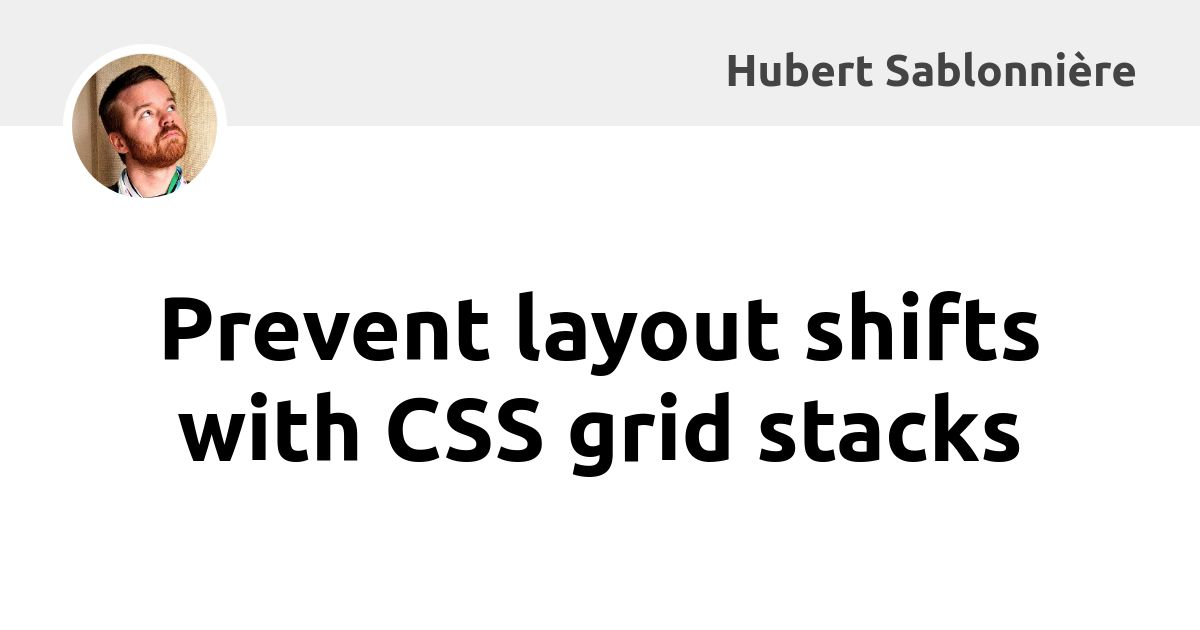
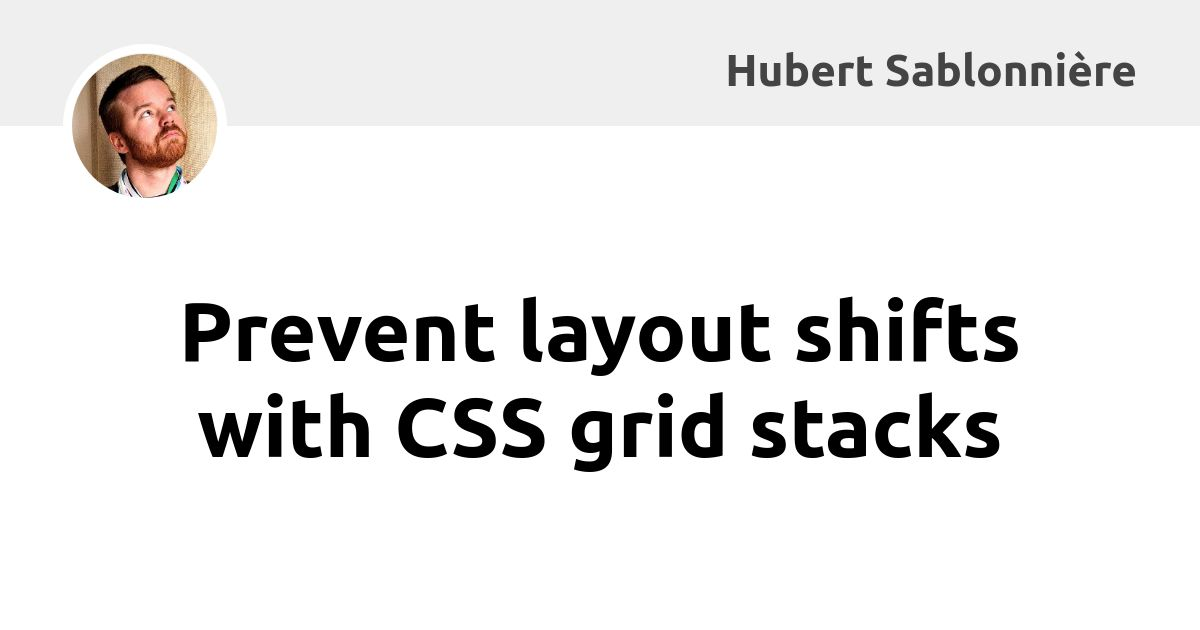
tasks: refactor Open Graph image task so it also generates a preview for the atom feed

Changed region(s): [[0.1542, 0.6032, 0.8633, 0.754], [0.1233, 0.4524, 0.8633, 0.573]]

diff --git a/pages/assets/css/article-og-image.css b/pages/assets/css/article-og-image.css
@@ -48,7 +48,7 @@ body {
 
 .main {
   align-self: center;
-  font-size: 7vh;
+  font-size: 3.5vw;
   grid-area: 2 / 1 / -1 / -1;
   justify-self: center;
   margin: 0 15vh;
